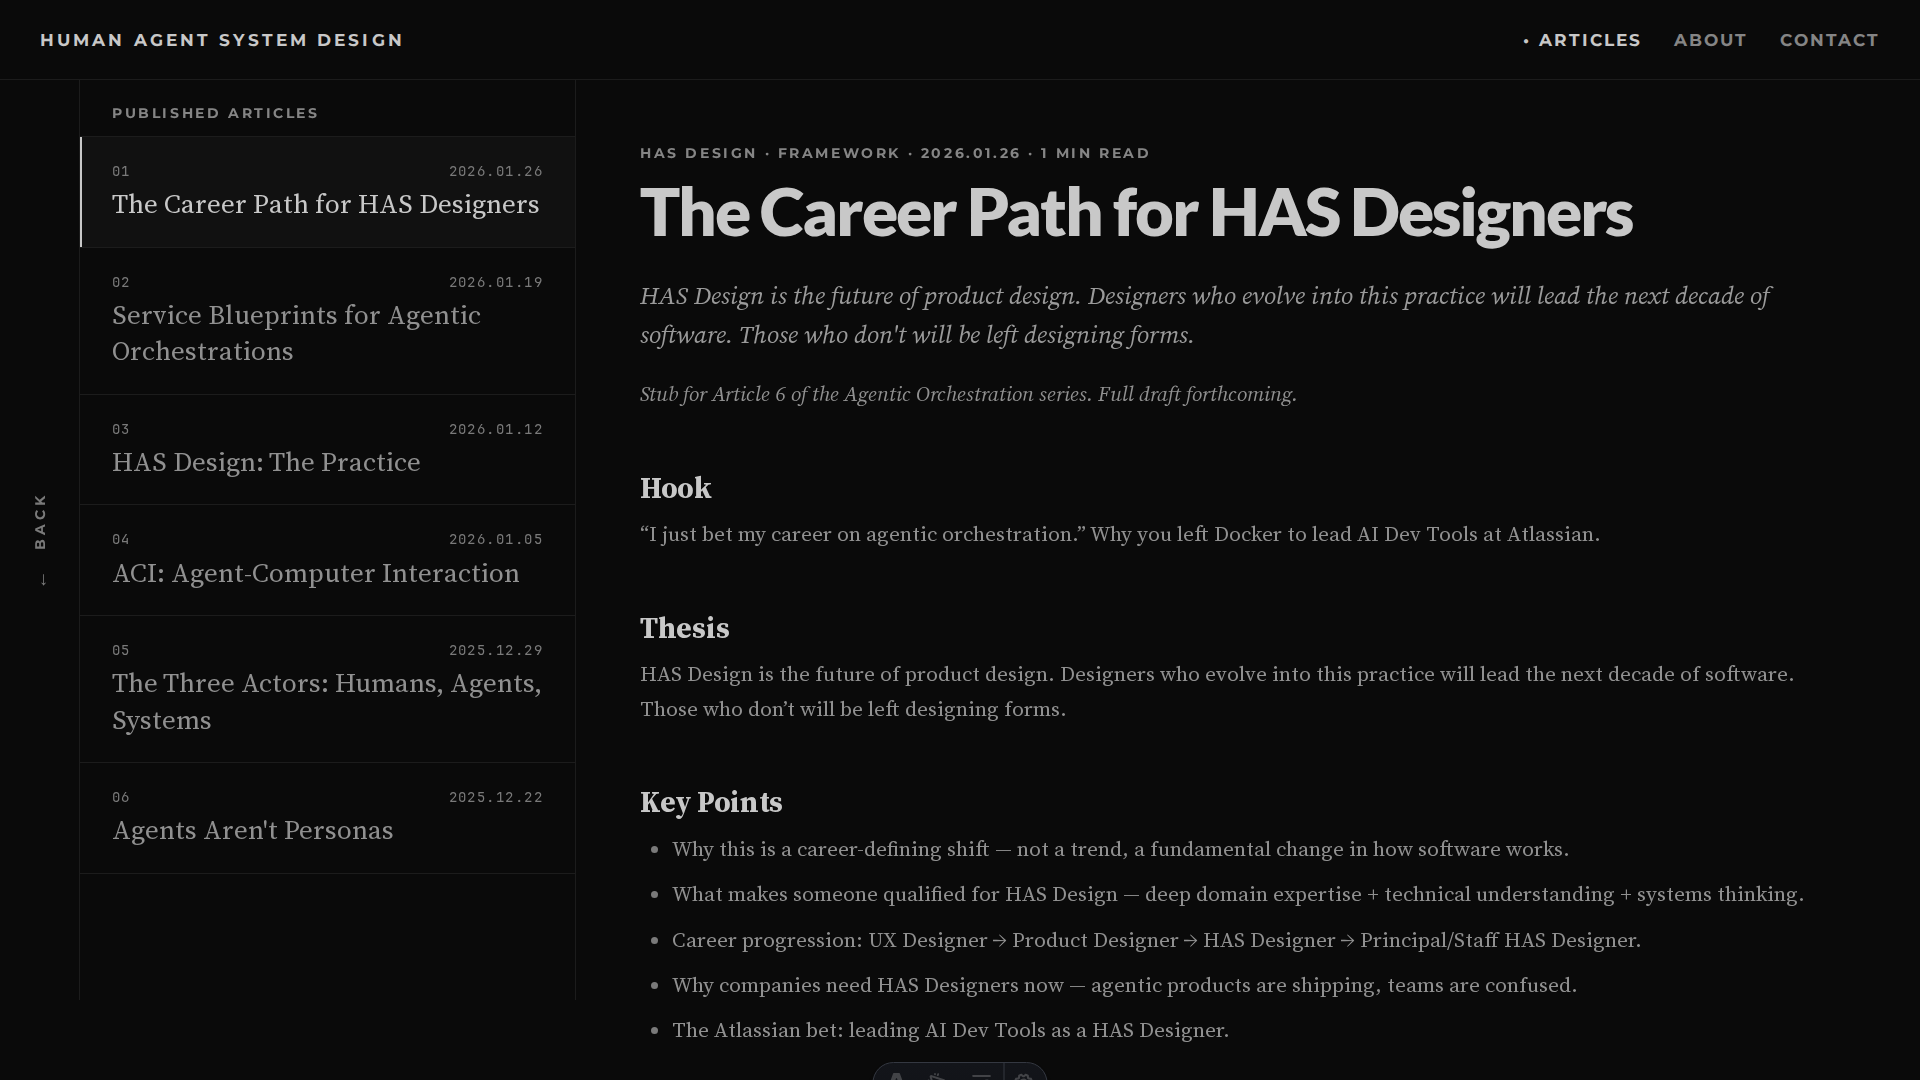
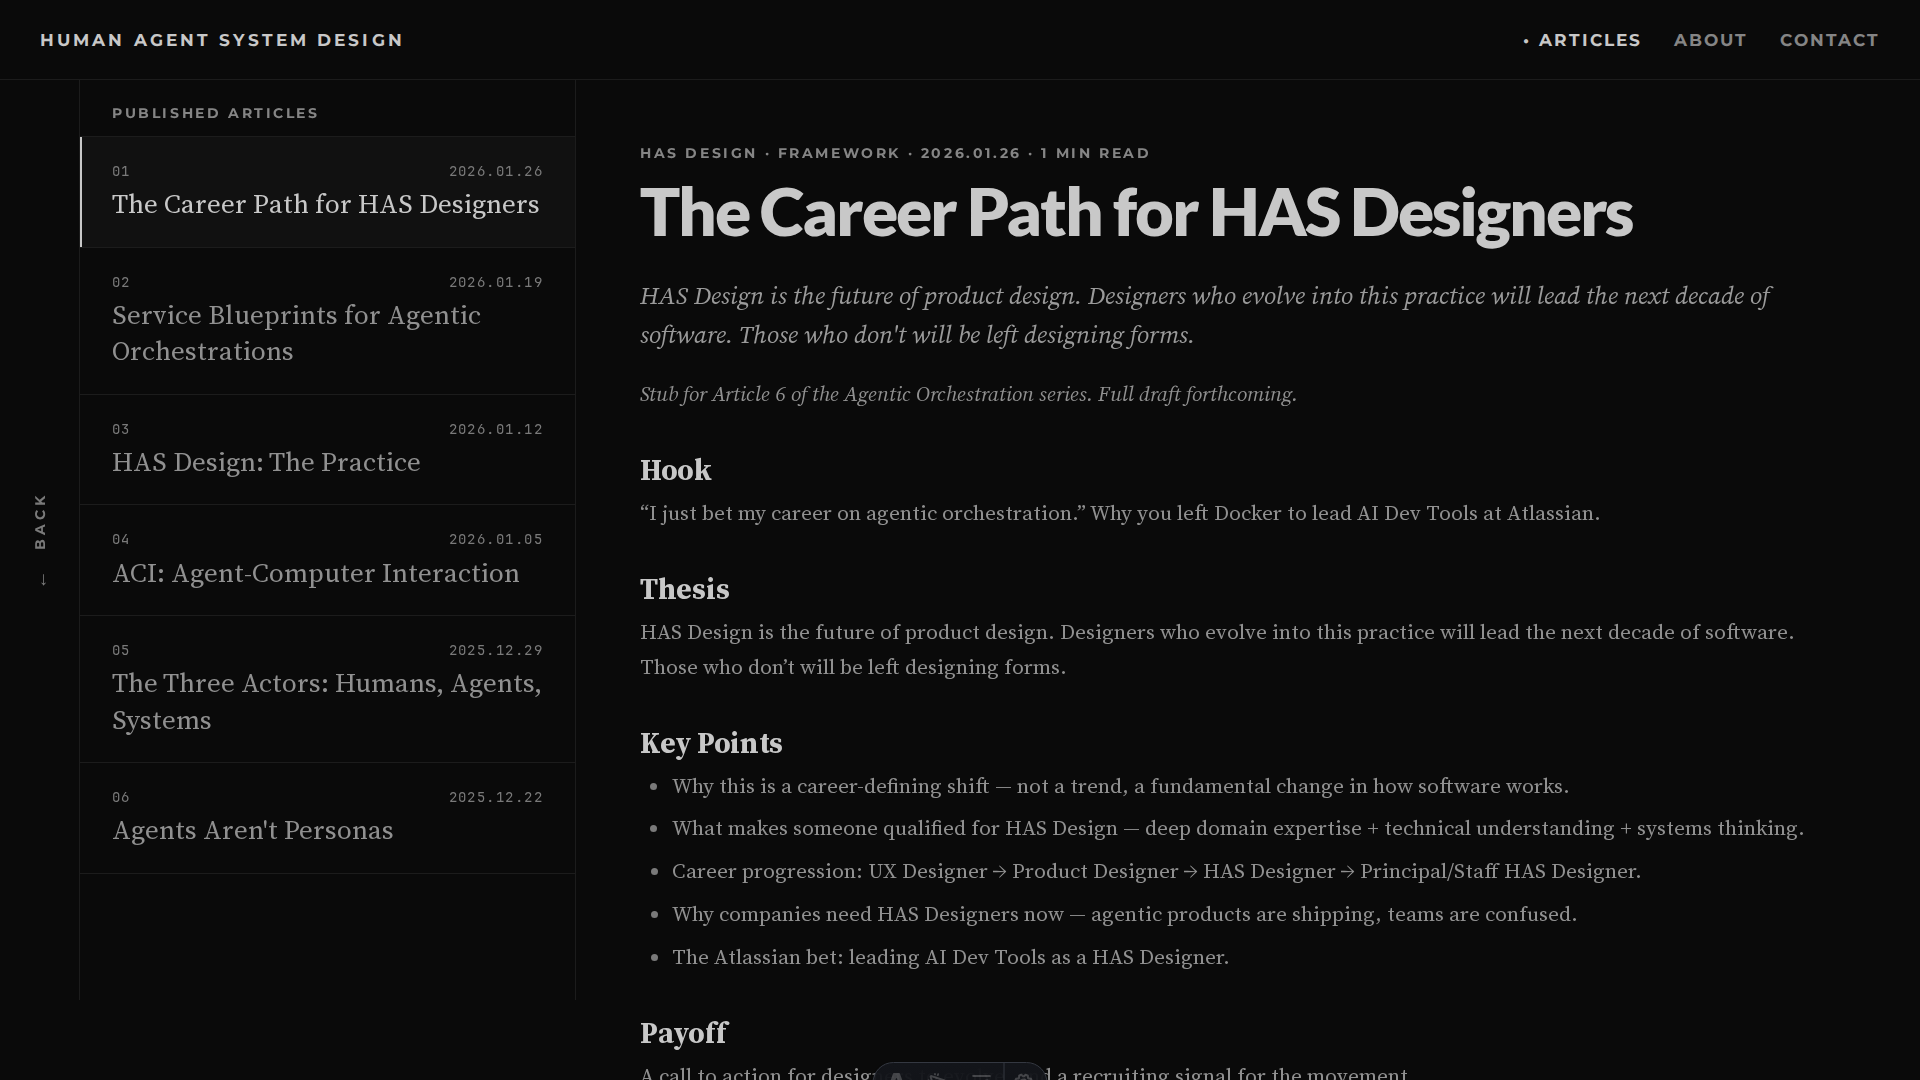
fix(reader): switch article body gaps to clamp() caps (ILI-687)
Updated scope per revised issue: convert all desktop article-body vertical
gaps to clamp(min, rem, cap) so they scale responsively with ILI-654
typography but never exceed the cap. Gap hierarchy: 40/24/20/8px.

- lede: clamp(16, 1.5rem, 24)
- p: clamp(14, 1.25rem, 20)
- h2: clamp(28, 2.5rem, 40) top / clamp(6, 0.5rem, 8) bottom
- ul/ol: clamp(14, 1.25rem, 20) bottom
- li: clamp(6, 0.5rem, 8) bottom

Mobile media query left alone (fixed px, already responsive). List padding
(1.5em desktop / 1.25em mobile) and marker color unchanged.

Changed region(s): [[0.3125, 0.4278, 0.9375, 0.9167], [0.3125, 0.9472, 0.7188, 1.0], [0.5625, 0.7028, 0.8125, 0.7333]]

diff --git a/tests/ili-687-screens.spec.ts b/tests/ili-687-screens.spec.ts
@@ -5,11 +5,10 @@ import path from 'path';
 const OUT = path.join(process.cwd(), 'screenshots', 'ili-687');
 fs.mkdirSync(OUT, { recursive: true });
 
-test.describe('ILI-687 — article reader list styling', () => {
-  test('1920×1080 — bullets inside article content area', async ({ page }) => {
+test.describe('ILI-687 — article reader list + responsive vertical gaps (clamp)', () => {
+  test('1920×1080 — bullets inside column, gaps cap at spec max', async ({ page }) => {
     await page.setViewportSize({ width: 1920, height: 1080 });
     await page.goto('/');
-    // "The Career Path for HAS Designers" has a Key Points list
     await page.getByText('The Career Path for HAS Designers').click();
     await page.waitForTimeout(800);
 
@@ -18,25 +17,43 @@ test.describe('ILI-687 — article reader list styling', () => {
     await page.waitForTimeout(200);
     await page.screenshot({ path: path.join(OUT, 'desktop-1920-bullets.png'), fullPage: false });
 
-    // ul padding-left should be 1.5em of body font-size (1.1vw of 1920 = 21.12px -> 31.68px)
     const body = page.locator('.art-body').first();
     const bodyFs = await body.evaluate((el) => parseFloat(getComputedStyle(el).fontSize));
+
+    // ul padding-left stays 1.5em (unchanged — keeps bullets inside the column)
     const ulPl = await ul.evaluate((el) => parseFloat(getComputedStyle(el).paddingLeft));
     expect(ulPl).toBeCloseTo(bodyFs * 1.5, 0);
 
+    // At 1920 the middle rem term saturates all four clamps to their caps.
     const ulMb = await ul.evaluate((el) => parseFloat(getComputedStyle(el).marginBottom));
-    expect(ulMb).toBeCloseTo(bodyFs, 0);
+    expect(ulMb).toBe(20);
 
-    // li left edge must be >= the paragraph left edge (inside the content column)
-    const p = page.locator('.art-body p').first();
-    const pBox = await p.boundingBox();
     const li = page.locator('.art-body li').first();
+    const liMb = await li.evaluate((el) => parseFloat(getComputedStyle(el).marginBottom));
+    expect(liMb).toBe(8);
+
+    const lede = page.locator('.art-lede').first();
+    const ledeMb = await lede.evaluate((el) => parseFloat(getComputedStyle(el).marginBottom));
+    expect(ledeMb).toBe(24);
+
+    const p = page.locator('.art-body p').first();
+    const pMb = await p.evaluate((el) => parseFloat(getComputedStyle(el).marginBottom));
+    expect(pMb).toBe(20);
+
+    const h2 = page.locator('.art-body h2').first();
+    const h2Mt = await h2.evaluate((el) => parseFloat(getComputedStyle(el).marginTop));
+    const h2Mb = await h2.evaluate((el) => parseFloat(getComputedStyle(el).marginBottom));
+    expect(h2Mt).toBe(40);
+    expect(h2Mb).toBe(8);
+
+    // li left edge ≥ paragraph left edge (bullets inside column)
+    const pBox = await p.boundingBox();
     const liBox = await li.boundingBox();
     if (!pBox || !liBox) throw new Error('missing boxes');
     expect(liBox.x).toBeGreaterThanOrEqual(pBox.x);
   });
 
-  test('375×812 — mobile padding is 1.25em', async ({ page }) => {
+  test('375×812 — mobile unchanged (ILI-687 scope is desktop only)', async ({ page }) => {
     await page.setViewportSize({ width: 375, height: 812 });
     await page.goto('/');
     await page.getByText('The Career Path for HAS Designers').click();

diff --git a/tests/ili-686-screens.spec.ts b/tests/ili-686-screens.spec.ts
@@ -5,8 +5,8 @@ import path from 'path';
 const OUT = path.join(process.cwd(), 'screenshots', 'ili-686');
 fs.mkdirSync(OUT, { recursive: true });
 
-test.describe('ILI-686 — tightened article section gaps (B2 mockup)', () => {
-  test('1920×1080 — reader open, verify margins', async ({ page }) => {
+test.describe('ILI-686 — tightened article section gaps (superseded by ILI-687 caps)', () => {
+  test('1920×1080 — reader open, verify gaps cap at ILI-687 spec', async ({ page }) => {
     await page.setViewportSize({ width: 1920, height: 1080 });
     await page.goto('/');
     await page.locator('.article-item').first().click();
@@ -14,26 +14,17 @@ test.describe('ILI-686 — tightened article section gaps (B2 mockup)', () => {
     await page.screenshot({ path: path.join(OUT, 'desktop-1920.png'), fullPage: true });
 
     const lede = page.locator('.art-lede').first();
-    const ledeMb = await lede.evaluate((el) => getComputedStyle(el).marginBottom);
-    // 1.5rem = 24px
-    expect(ledeMb).toBe('24px');
+    const ledeMb = await lede.evaluate((el) => parseFloat(getComputedStyle(el).marginBottom));
+    expect(ledeMb).toBe(24);
 
-    const body = page.locator('.art-body').first();
-    const bodyFs = await body.evaluate((el) => parseFloat(getComputedStyle(el).fontSize));
-    // body is 1.1vw of 1920 = 21.12px
     const p = page.locator('.art-body p').first();
     const pMb = await p.evaluate((el) => parseFloat(getComputedStyle(el).marginBottom));
-    // 1em on body font-size
-    expect(pMb).toBeCloseTo(bodyFs, 0);
+    expect(pMb).toBe(20);
 
     const h2 = page.locator('.art-body h2').first();
     const h2Mt = await h2.evaluate((el) => parseFloat(getComputedStyle(el).marginTop));
-    const h2Fs = await h2.evaluate((el) => parseFloat(getComputedStyle(el).fontSize));
-    // 2em of h2 font-size
-    expect(h2Mt).toBeCloseTo(h2Fs * 2, 0);
-
+    expect(h2Mt).toBe(40);
     const h2Mb = await h2.evaluate((el) => parseFloat(getComputedStyle(el).marginBottom));
-    // 0.4em of h2 font-size
-    expect(h2Mb).toBeCloseTo(h2Fs * 0.4, 0);
+    expect(h2Mb).toBe(8);
   });
 });

diff --git a/src/styles/homepage.css b/src/styles/homepage.css
@@ -259,31 +259,31 @@ button { font: inherit; color: inherit; background: none; border: none; cursor: 
   line-height: 1.55;
   font-style: italic;
   color: #9a9a9a;
-  margin: 0 0 1.5rem;
+  margin: 0 0 clamp(16px, 1.5rem, 24px);
 }
 .art-body {
   font-size: 1.1vw;
   line-height: 1.65;
   color: #909090;
 }
-.art-body p { margin-bottom: 1em; }
+.art-body p { margin-bottom: clamp(14px, 1.25rem, 20px); }
 .art-body p:last-child { margin-bottom: 0; }
 .art-body h2 {
   font-size: 1.5vw;
   font-weight: 700;
   line-height: 1.25;
   color: #c8c8c8;
-  margin: 2em 0 0.4em;
+  margin: clamp(28px, 2.5rem, 40px) 0 clamp(6px, 0.5rem, 8px);
   letter-spacing: -0.01em;
 }
 .art-body h2 + p { margin-top: 0; }
 .art-body ul,
 .art-body ol {
   padding-left: 1.5em;
-  margin: 0 0 1em;
+  margin: 0 0 clamp(14px, 1.25rem, 20px);
 }
 .art-body li {
-  margin-bottom: 0.5em;
+  margin-bottom: clamp(6px, 0.5rem, 8px);
   line-height: 1.65;
 }
 .art-body li::marker {
